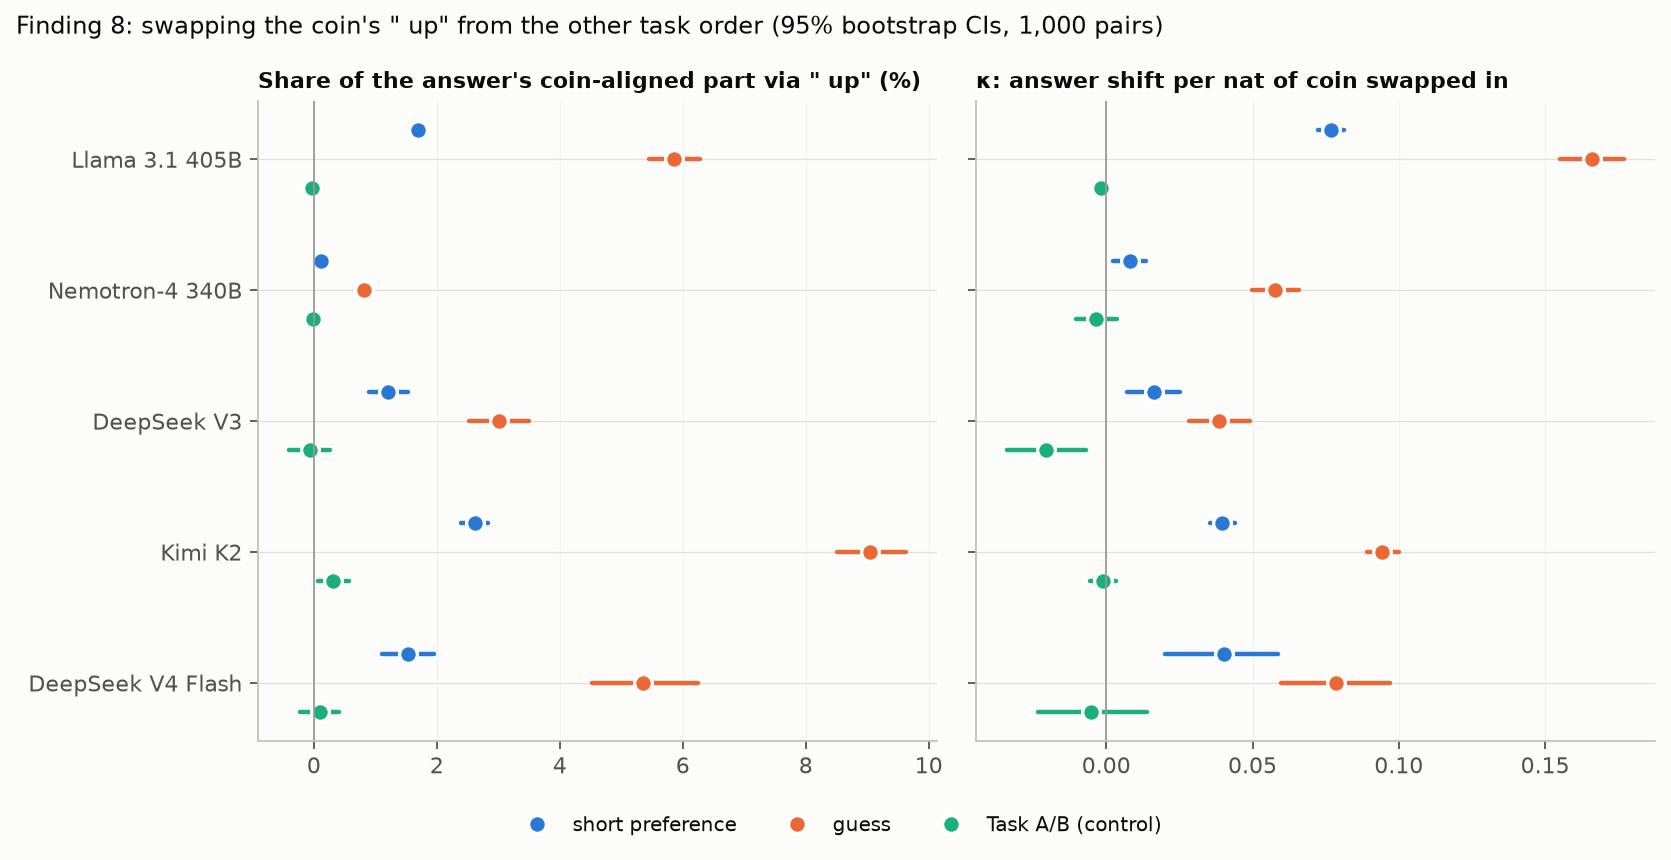
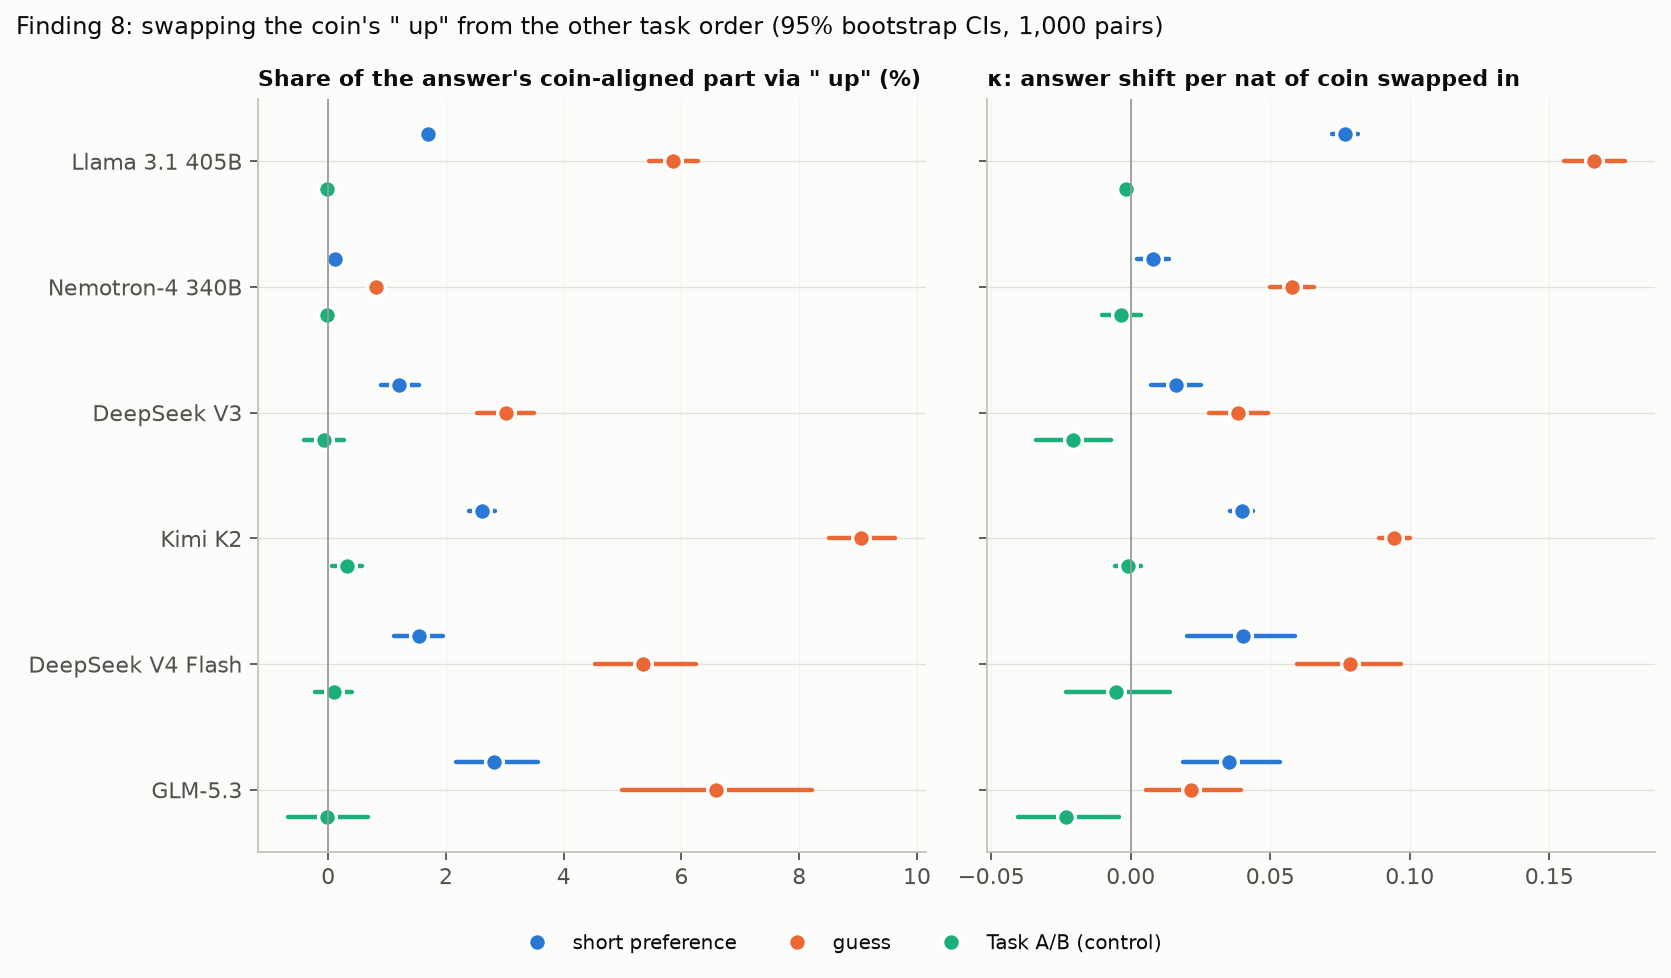
Replication round 2, finding 8 on GLM-5.3 and the round's findings: the " up" swap moves GLM-5.3's heads/tails answer against the coin for both questions (short preference 2.8% [2.2, 3.6], κ +0.035; the guess 6.6% [5.0, 8.2], κ +0.022), the ctrl patch stays null and the Task A/B control's share is 0

diff --git a/scripts/replication_patch_summary.py b/scripts/replication_patch_summary.py
@@ -21,7 +21,7 @@ import coin_report  # noqa: E402
 from matskit import plotstyle  # noqa: E402
 
 MODELS = {"llama-405b": "Llama 3.1 405B", "nemotron4-340b": "Nemotron-4 340B", "deepseek-v3": "DeepSeek V3",
-          "kimi-k2": "Kimi K2", "deepseek-v4-flash": "DeepSeek V4 Flash"}
+          "kimi-k2": "Kimi K2", "deepseek-v4-flash": "DeepSeek V4 Flash", "glm-5.3": "GLM-5.3"}
 QUESTIONS = {"coin_report_short_coin_bold": "short preference", "coin_predict_think_bold": "guess",
              "coin_report_ab": "Task A/B (control)"}
 STATS = ("swap: share", "kappa (swap+ctrl)", "swap: r(d, coin)", "ctrl: share", "r(report, coin)",

diff --git a/README.md b/README.md
@@ -7850,7 +7850,31 @@ without the base subtraction): "tracks" ≥ 0.25 with its CI above 0, "absent" b
   this: there the bases' stories didn't track the final Assistant (Llama 70B: r −0.12 and −0.16; Gemma: 0.34 and 0.48), so
   what tracking there was came with post-training.
 
-### Predictions, scored (finding 8 pending)
+### Results: finding 8 on GLM-5.3 (2026-11-24)
+
+HF transformers on the round-2 node, with round 1's scope: the unpatched pass, `self`, `swap` and `ctrl` on the 1,000 report
+pilot pairs in both orders, three questions in one load (1.8 min), ~15 min per question. W&B runs `a0dxv4wj`, `biuioh6k`,
+`95rmx9l0`; rows in `outputs/coin_report/glm-5.3/`.
+- The self-patch changes no answer (max 0).
+- The prompts read at the effort level the vLLM run chose ("Reasoning Effort: Low").
+- The node's watchdog stopped it after the job list ended. The rows came back from W&B, where each run saves them.
+
+| question | share via " up" [95% CI] | κ [95% CI] | ctrl share | call |
+|---|---|---|---|---|
+| short preference (`coin_report_short_coin_bold`) | 2.8% [2.2, 3.6] | +0.035 [+0.019, +0.053] | +0.3% [−0.4, +1.0] | replicates |
+| guess (`coin_predict_think_bold`) | 6.6% [5.0, 8.2] | +0.022 [+0.005, +0.039] | +0.5% [−1.0, +1.9] | replicates |
+| Task A/B (control) | −0.0% [−0.7, +0.7] | −0.023 [−0.041, −0.004] | −0.3% [−1.0, +0.3] | null, as expected |
+
+![finding 8, six models](figures/replication_patching.png)
+
+- **Finding 8 replicates on GLM-5.3 for both questions.** As in all five of round 1's patched models, the guess reads " up"
+  more than the short preference (6.6% vs 2.8%).
+- **The control patch stays null** (CIs include 0). So the swap's effect follows the coin's content at " up", not the
+  disruption of patching.
+- **The Task A/B control's κ is slightly negative** (−0.023, CI below 0) while its share is 0.0%, as in DeepSeek V3
+  (−0.021).
+
+### Predictions, scored
 
 1. **Mostly wrong:**
    - Only Kimi K3.1 Pro's user-reported coin is small (SD 0.27); GLM-5.3's is 0.55.
@@ -7860,7 +7884,7 @@ without the base subtraction): "tracks" ≥ 0.25 with its CI above 0, "absent" b
 2. **Right:** findings 2 and 3 hold in both new models.
 3. **Right:** the reasoning check agrees in both (r 0.971-0.995).
 4. **Right:** the effort rule picks low in both, though by a tie in Kimi K3.1 Pro.
-5. **Pending** (finding 8 on GLM-5.3).
+5. **Half right:** finding 8 replicates on GLM-5.3 for the guess, as predicted, and for the short preference too (2.8%), against my "not".
 6. **Right:**
    - The tool's coin follows the roleplay persona in 20 of 23 separable cells.
    - Δw_rp's sign varies within and across models.
@@ -7874,6 +7898,50 @@ without the base subtraction): "tracks" ≥ 0.25 with its CI above 0, "absent" b
    - The freelancer story is absent in 2 of 8 and the AI story in 3 of 8, against at least 6 and 5 predicted: wrong.
    - Each story is below `raw_no_okay` in 6 of 8, against at least 7: wrong.
 9. **Wrong:** the gate passes in 2 of 6, not at least 5. It fails by architecture (every MoE), not only in V4 Flash.
+
+
+### Findings
+
+1. **The first round's findings 1-3 hold on GLM-5.3 and Kimi K3.1 Pro.** These are two always-thinking frontier models
+   without released bases, so the calls are final-only.
+   - Their user-reported coin, the user's choice and the prediction of the user each correlate 0.71-0.92 with the
+     Assistant's own choice.
+   - Without a base, this can't show that post-training produced it.
+2. **Thinking doesn't by itself make the coin small.** GLM-5.3's coin (SD 0.55 nats) is as large as round 1's non-thinking
+   models'; Kimi K3.1 Pro's (0.27) is small like Trinity's (0.20).
+3. **Both new models' Assistants refuse to take on the evil persona** (r 0.98 with their default, from the system prompt or
+   the user). So finding 4-7's evil cells can't be called on them, unlike round 1's models (where V4 Flash alone did this, and
+   only under the user's instruction).
+4. **Finding 8 replicates on GLM-5.3** for both questions (2.8% and 6.6% via " up"), with the guess reading " up" more, as in
+   every patched model so far.
+5. **A tool reporting the flip under a roleplay persona still follows the persona,** in 20 of 23 separable cells, mostly
+   mixed with the default Assistant. Against the user-reported coin it follows less or as much in most cells.
+6. **The length rules move the coin toward the instructed choice in nearly every model,** reported by the user (14 of 16
+   cells) or by a tool (9 of 12).
+   - The tool's coin follows less under "shorter" and more under "longer". It doesn't drop the following, so the coin's
+     following isn't only the model modelling the user's wish.
+   - Every Assistant follows both rules.
+7. **Third-person raw-text stories track the chat Assistant in most of the larger models** (the AI-assistant story in 5 of
+   8, the freelancer story in 6 of 8, r up to 0.92). Round 1's smaller models lost the effect in stories. The AI-assistant
+   story tracks more than the freelancer one where they differ (DeepSeek V3, Kimi K2).
+8. **Kimi K3.1 Pro can't be read at a tool's output:** it puts 1-9% of its probability on heads/tails there, so none of its
+   tool conditions can be called.
+9. **Scores reproduce across B200 and B300 for dense models; MoE models' coins drift** (utilities r 0.988-0.999 between runs
+   for the user-reported and tool coins; Trinity's user-reported coin 0.80), while their Assistants reproduce. Round 1's coin-Assistant correlations move by at most 0.035.
+
+### Caveats (from the results)
+
+- **No base for GLM-5.3 or Kimi K3.1 Pro, and none run for the stories:** every "tracks" here is about the final model's
+  state, not about what post-training did.
+- **The empty think block is off-path for both new models,** Kimi K3.1 Pro most (P(close at once) ~0). The reasoning check
+  agrees (r ≥ 0.97), but it compares two off-path readings of the same answer.
+- **The MoE models' coins aren't fully reproducible between runs.** The tool-roleplay comparisons use round 1's C_rp and
+  T_sys for them, so part of Δw_rp is engine noise, most for Trinity.
+- **Kimi K3.1 Pro's tool cells are excluded by the mass gate,** although their log-odds are reliable. The exploratory r(T, A_0)
+  of 0.71 is read in the tail of the distribution.
+- **The relative slope is a base-free stand-in for round 1's retention.** It can't separate a story's ranking inherited from
+  pretraining from one added after.
+- One phrasing per condition, greedy readouts, CIs over task sampling only.
 
 ## Tasks
 
